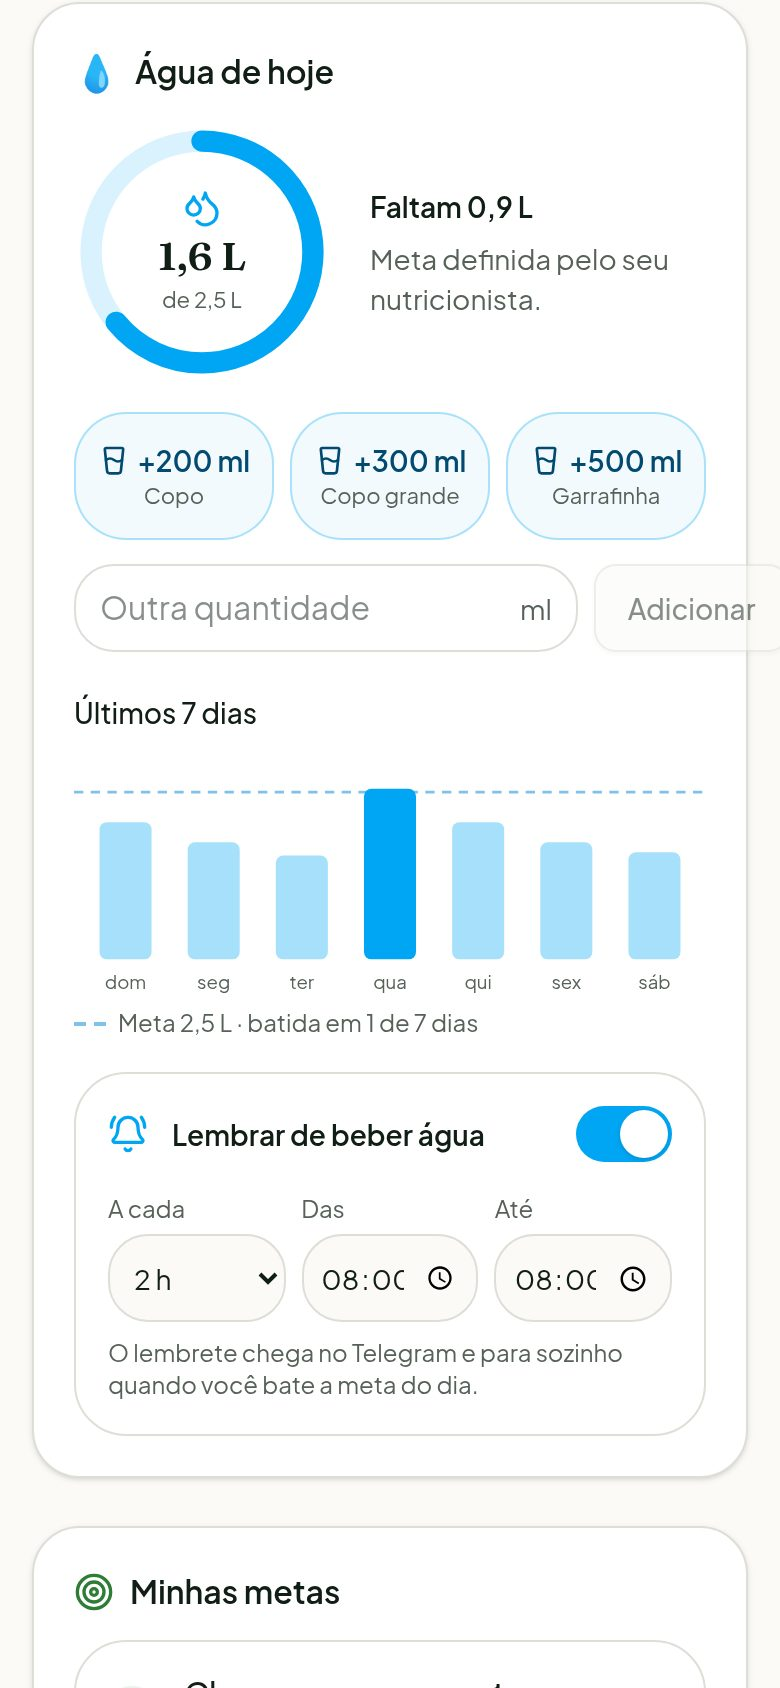
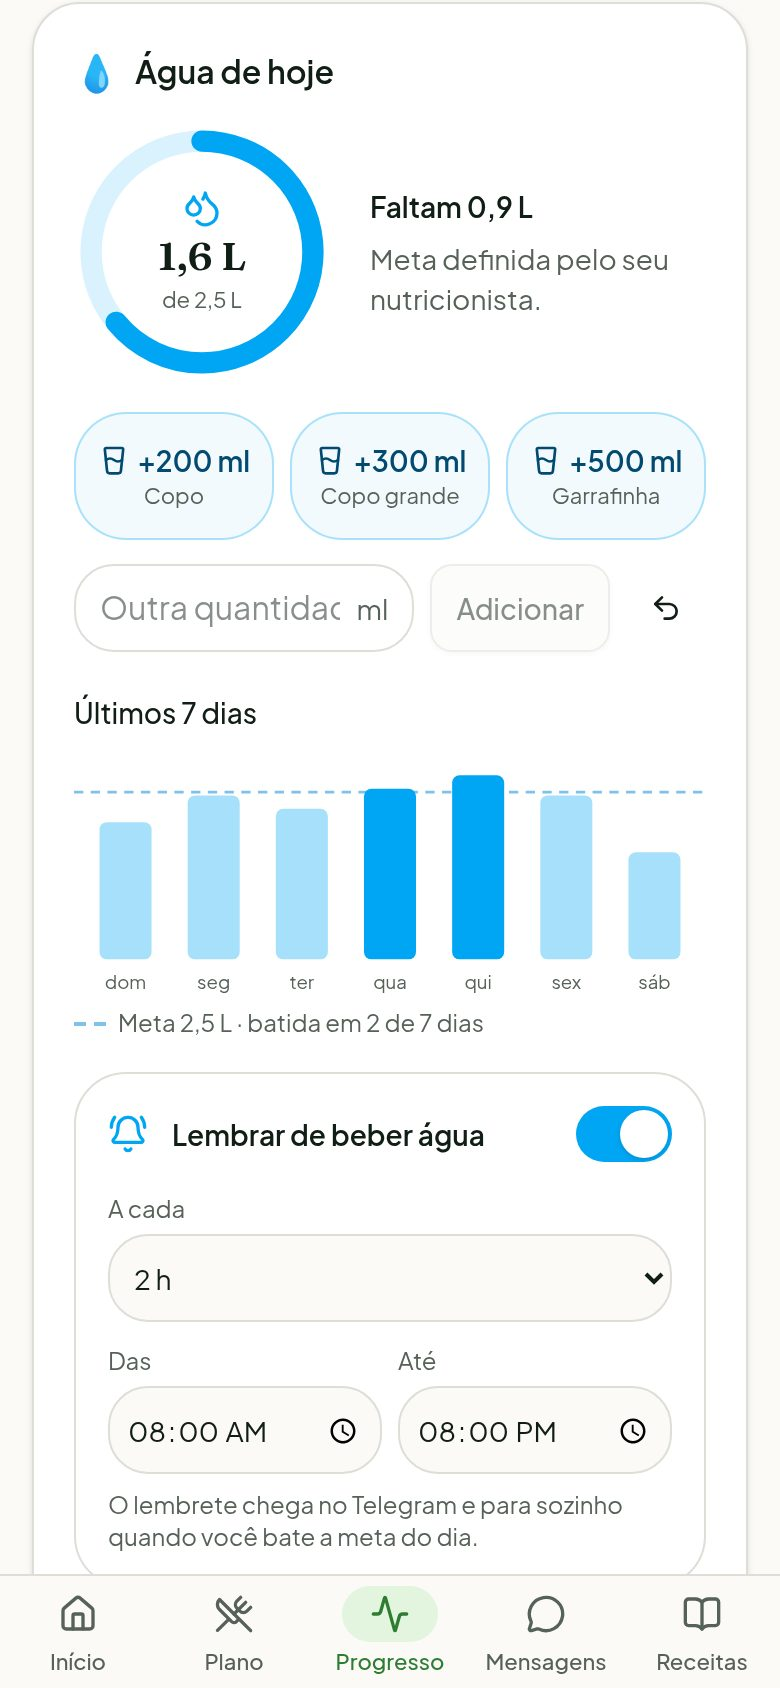
fix(site): moldura do celular com barra de status (o entalhe não cobre a tela), capturas da água, início e mensagens refeitas; campo de água mais curto

diff --git a/apps/web/components/marketing/shot.tsx b/apps/web/components/marketing/shot.tsx
@@ -9,7 +9,11 @@ export function ShotFrame({ shot, priority = false, className }: { shot: Shot; p
       <figure className={cn('relative mx-auto w-[min(100%,300px)]', className)}>
         <div className="rounded-[2.6rem] bg-neutral-900 p-2.5 shadow-2xl shadow-primary/20 ring-1 ring-black/10 dark:bg-neutral-800">
           <div className="relative overflow-hidden rounded-[2.1rem] bg-background">
-            <span aria-hidden="true" className="absolute left-1/2 top-2 z-10 h-5 w-24 -translate-x-1/2 rounded-full bg-neutral-900" />
+            <div aria-hidden="true" className="relative flex h-7 items-center justify-between bg-background px-6 text-[10px] font-semibold text-foreground/80">
+              <span>9:41</span>
+              <span className="absolute left-1/2 top-1.5 h-4 w-20 -translate-x-1/2 rounded-full bg-neutral-900" />
+              <span className="flex items-center gap-1"><span className="h-2 w-3 rounded-[2px] border border-current" /></span>
+            </div>
             <Image src={shot.src} alt={shot.alt} width={780} height={1688} priority={priority} sizes="300px" className="h-auto w-full" />
           </div>
         </div>

diff --git a/apps/web/components/tracking/water-tracker.tsx b/apps/web/components/tracking/water-tracker.tsx
@@ -81,7 +81,7 @@ export function WaterTracker({ c, water, compact = false }: { c: string | null; 
         <div className="mt-3 flex items-center gap-2">
           <label className="flex min-h-11 min-w-0 flex-1 items-center gap-2 rounded-xl border border-border px-3">
             <span className="sr-only">Outra quantidade em ml</span>
-            <input inputMode="numeric" value={custom} onChange={(e) => setCustom(e.target.value.replace(/\D/g, '').slice(0, 4))} placeholder="Outra quantidade" className="min-w-0 flex-1 bg-transparent text-base outline-none" />
+            <input inputMode="numeric" value={custom} onChange={(e) => setCustom(e.target.value.replace(/\D/g, '').slice(0, 4))} placeholder="Outro valor" className="min-w-0 flex-1 bg-transparent text-base outline-none" />
             <span className="text-sm text-muted-foreground">ml</span>
           </label>
           <Button type="button" variant="outline" className="h-11 shrink-0 px-3" disabled={busy || !custom} onClick={() => { void add(Number(custom)); setCustom(''); }}>Adicionar</Button>
